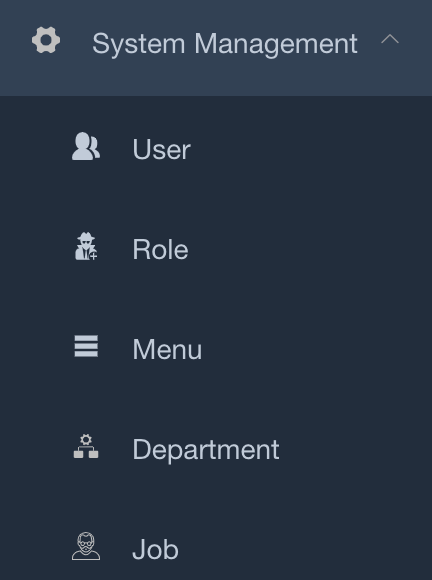
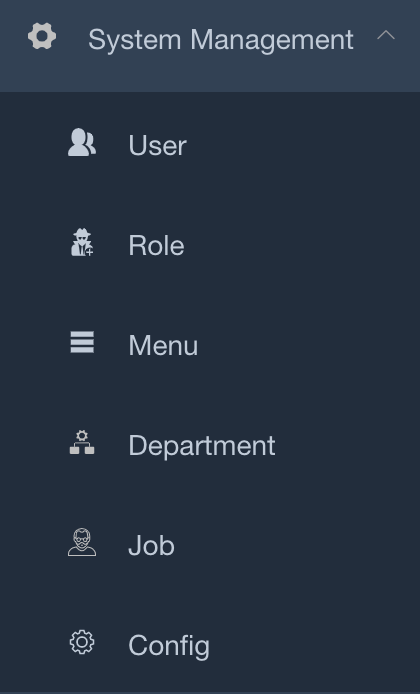
系统配置管理

diff --git a/docs/.vuepress/config.js b/docs/.vuepress/config.js
@@ -47,7 +47,8 @@ function getFunctionSidebar (groupBasic, groupSystem, groupProduct, groupStock, 
         'system/job',
         'system/menu',
         'system/role',
-        'system/user'
+        'system/user',
+        'system/config'
       ]
     },
     {

diff --git a/docs/function/system/config.md b/docs/function/system/config.md
@@ -1,0 +1,11 @@
+# 系统配置
+
+::: tip
+- 系统配置，包含两块内容。
+- 系统截单时间设置。
+- 打印发票的一些基础设置。
+:::
+
+## 功能预览
+![](/system/config/config.png)
+
